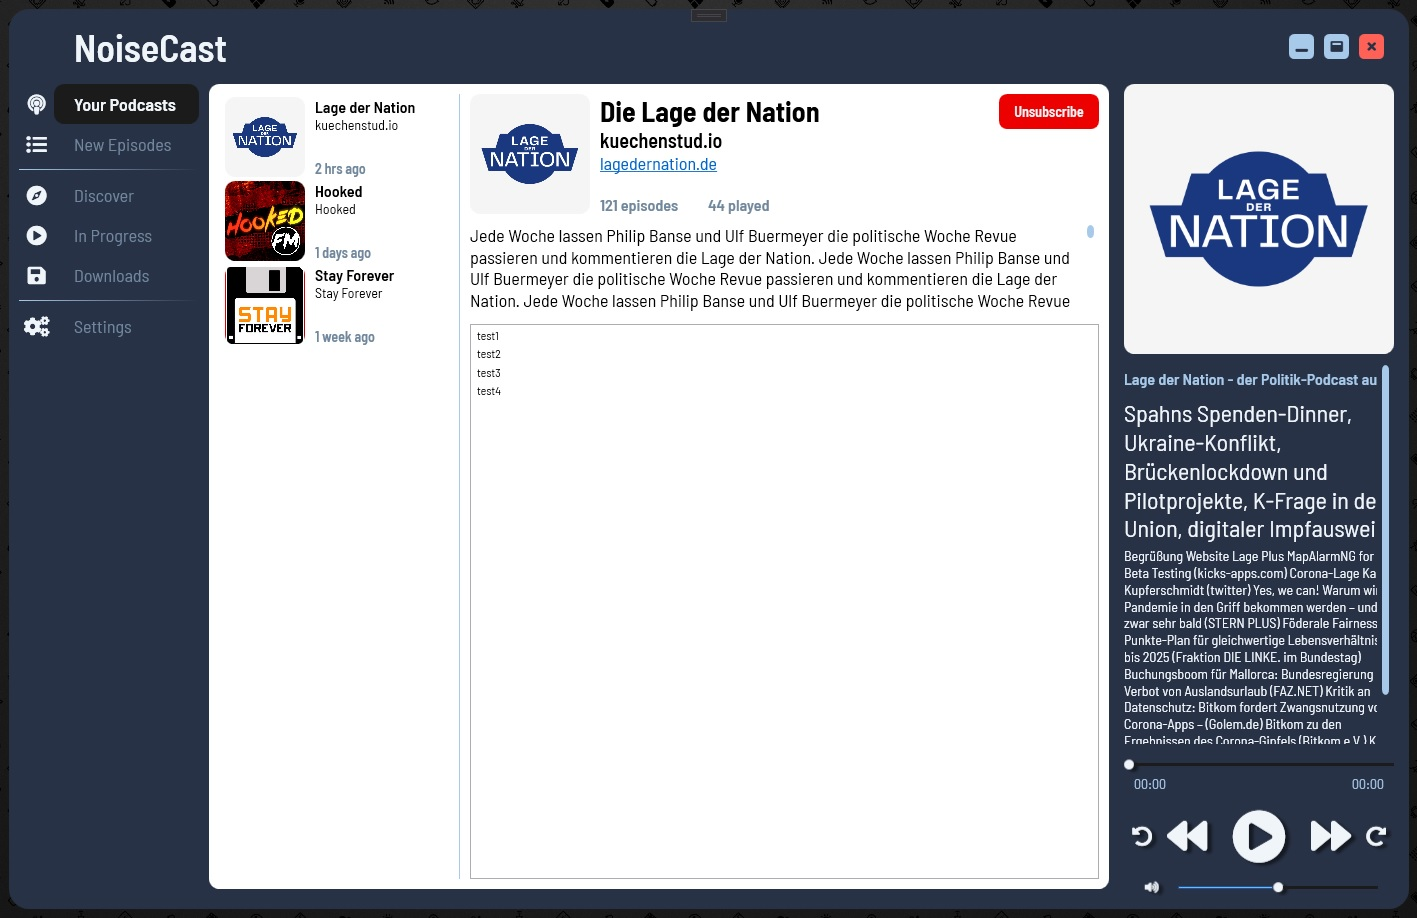
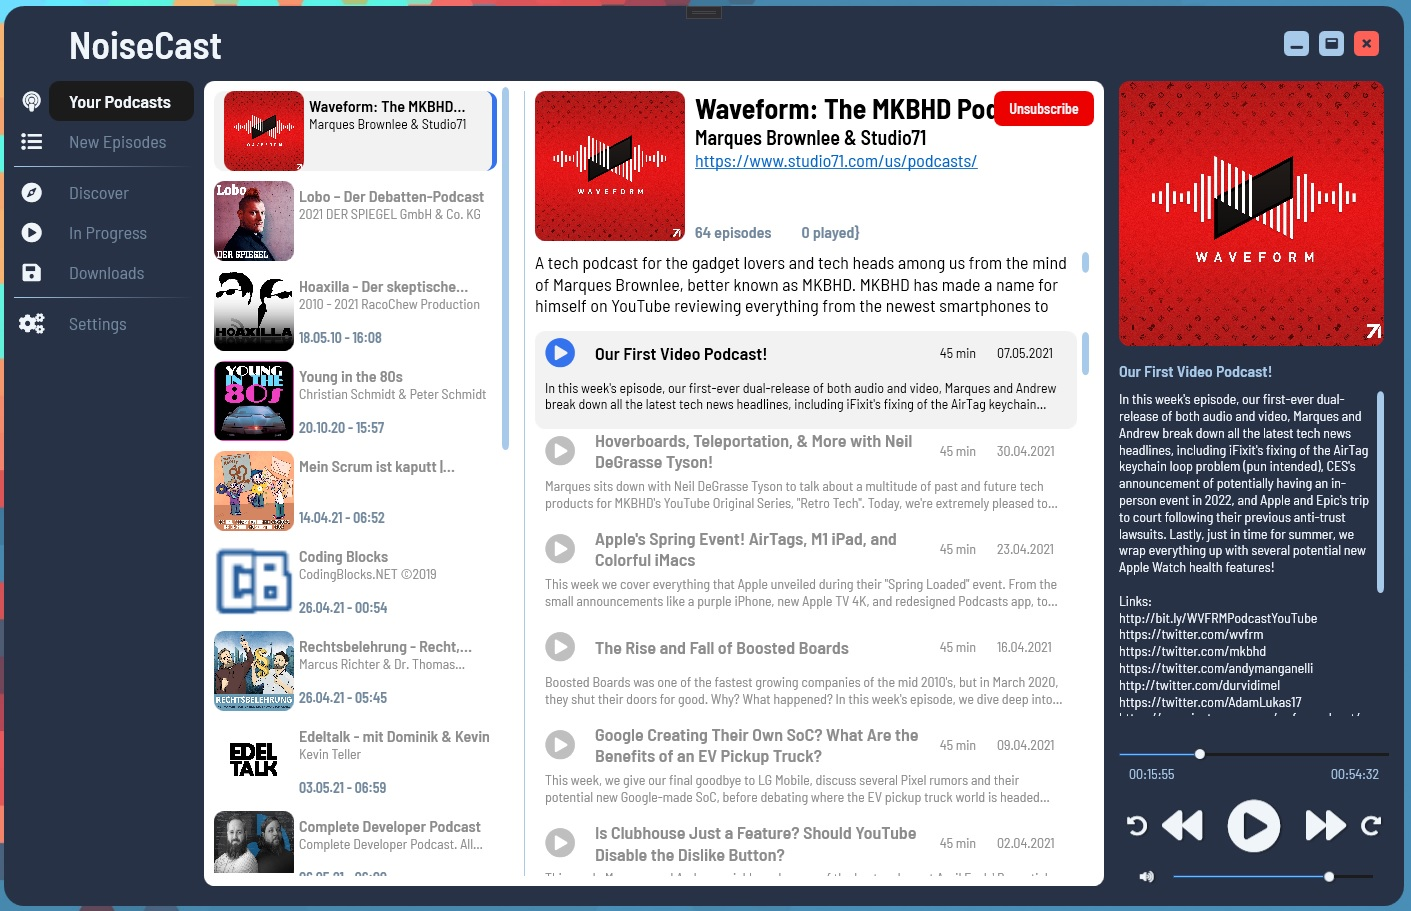
Slider und Zeitanzeige in textblock funktioniert

Changed region(s): [[0.0, 0.0, 1.0, 1.0], [0.3742, 0.584, 0.7484, 0.7684], [0.7172, 0.7991, 0.7484, 0.8299]]

diff --git a/WPFMVVM/MVVM/View/PlayerView.xaml b/WPFMVVM/MVVM/View/PlayerView.xaml
@@ -3,7 +3,7 @@
              xmlns:x="http://schemas.microsoft.com/winfx/2006/xaml"
              xmlns:mc="http://schemas.openxmlformats.org/markup-compatibility/2006"
              xmlns:d="http://schemas.microsoft.com/expression/blend/2008"
-             xmlns:local="clr-namespace:WPFMVVM.MVVM.View"
+             xmlns:core="clr-namespace:WPFMVVM.MVVM.Core"
              xmlns:vm="clr-namespace:WPFMVVM.MVVM.ViewModel"
              mc:Ignorable="d"
              Height="825"
@@ -12,6 +12,7 @@
              d:DataContext="{d:DesignInstance Type=vm:PlayerViewModel, IsDesignTimeCreatable=True}"
              x:Name="main">
     <UserControl.Resources>
+        <core:DoubleToTimeSpanConverter x:Key="TimeConverter"/>
         <vm:PlayerViewModel x:Key="PlayerViewModel"/>
     </UserControl.Resources>
 
@@ -84,11 +85,11 @@
                         Maximum="{Binding PositionMaximum}"
                         Value="{Binding Position, Mode=TwoWay}"/>
                 <Grid Margin="10 0">
-                    <TextBlock Text="{Binding Position}"
+                    <TextBlock Text="{Binding Position, Converter={StaticResource TimeConverter}, StringFormat={}{0:hh\\:mm\\:ss}}"
                                Foreground="{StaticResource DarkFont2}"
                                FontSize="14"
                                HorizontalAlignment="Left"/>
-                    <TextBlock Text="{Binding PositionMaximum}"
+                    <TextBlock Text="{Binding PositionMaximum, Converter={StaticResource TimeConverter}, StringFormat={}{0:hh\\:mm\\:ss}}"
                                Foreground="{StaticResource DarkFont2}"
                                FontSize="14"
                                HorizontalAlignment="Right"/>

diff --git a/WPFMVVM/MVVM/ViewModel/PlayerViewModel.cs b/WPFMVVM/MVVM/ViewModel/PlayerViewModel.cs
@@ -1,13 +1,9 @@
-using CodeHollow.FeedReader.Feeds;
-using System;
-using System.ComponentModel;
-using System.Diagnostics;
-using System.Threading;
+using System;
 using System.Windows.Controls;
 using System.Windows.Input;
 using System.Windows.Threading;
 using WPFMVVM.Core;
-using WPFMVVM.MVVM.Core;
+using WPFMVVM.MVVM.Model;
 
 namespace WPFMVVM.MVVM.ViewModel
 {
@@ -17,9 +13,9 @@ namespace WPFMVVM.MVVM.ViewModel
         private DispatcherTimer _timer;
         private Episode _currentEpisode;
         private double _skipAmount;
-        private double _tempVolume;
         private double _position;
         private double _positionMaximum;
+        private double _tempVolume;
 
         public MediaElement MediaElement
         {
@@ -39,7 +35,13 @@ namespace WPFMVVM.MVVM.ViewModel
         public double Position
         {
             get => _position;
-            set => SetProperty(ref _position, value);
+            set
+            {
+                if (value != _position + 1)
+                    MediaElement.Position = TimeSpan.FromSeconds(value);
+
+                SetProperty(ref _position, value);
+            }
         }
         public double PositionMaximum
         {
@@ -74,20 +76,22 @@ namespace WPFMVVM.MVVM.ViewModel
             _mediaElement = new MediaElement();
             _mediaElement.LoadedBehavior = MediaState.Manual;
             _mediaElement.UnloadedBehavior = MediaState.Manual;
+            _mediaElement.MediaOpened += MediaElement_MediaOpened;
 
             _skipAmount = 30;
             _mediaElement.Volume = .2;
         }
 
         private void OnTimerTick(object sender, EventArgs e) => Position++;
-
+        private void MediaElement_MediaOpened(object sender, System.Windows.RoutedEventArgs e)
+        {
+            Position = 0;
+            PositionMaximum = _mediaElement.NaturalDuration.TimeSpan.TotalSeconds;
+        }
         private void _currentEpisode_EpisodeChanged(Episode sender, EpisodeChangedEventArgs e)
         {
             MediaElement.Source = new Uri(sender.MediaUrl);
             _mediaElement.Pause();
-
-            if (_mediaElement.NaturalDuration.HasTimeSpan) PositionMaximum = _mediaElement.NaturalDuration.TimeSpan.TotalSeconds;
-            Position = 0;
         }
 
         private bool LastCanExecute(object arg) => false;
@@ -96,7 +100,7 @@ namespace WPFMVVM.MVVM.ViewModel
         private bool NextCanExecute(object arg) => false;
         private void NextExecuted(object obj) => throw new NotImplementedException();
 
-        private bool PlayCanExecute(object arg) => true;
+        private bool PlayCanExecute(object arg) => _mediaElement.Source != null;
         private void PlayExecuted(object obj)
         {
             if (_timer.IsEnabled)
@@ -110,11 +114,37 @@ namespace WPFMVVM.MVVM.ViewModel
             _mediaElement.Play();
         }
 
-        private bool SkipCanExecute(object arg) => _mediaElement.Source != null && _mediaElement.Position > TimeSpan.Zero;
-        private void SkipExecuted(object obj) => _mediaElement.Position += TimeSpan.FromSeconds(_skipAmount);
+        private bool SkipCanExecute(object arg) => _mediaElement.Source != null;
+        private void SkipExecuted(object obj)
+        {
+            TimeSpan targetTime = _mediaElement.Position + TimeSpan.FromSeconds(_skipAmount);
 
-        private bool RewindCanExecute(object arg) => _mediaElement.Source != null && _mediaElement.Position < _mediaElement.NaturalDuration;
-        private void RewindExecuted(object obj) => _mediaElement.Position -= TimeSpan.FromSeconds(_skipAmount);
+            if (targetTime > _mediaElement.NaturalDuration.TimeSpan)
+            {
+                _mediaElement.Position = _mediaElement.NaturalDuration.TimeSpan;
+                Position = _mediaElement.Position.TotalSeconds;
+                return;
+            }
+
+            _mediaElement.Position = targetTime;
+            Position = targetTime.TotalSeconds;
+        }
+
+        private bool RewindCanExecute(object arg) => _mediaElement.Source != null;
+        private void RewindExecuted(object obj)
+        {
+            TimeSpan targetTime = _mediaElement.Position - TimeSpan.FromSeconds(_skipAmount);
+
+            if (targetTime <= TimeSpan.Zero)
+            {
+                _mediaElement.Position = TimeSpan.Zero;
+                Position = 0;
+                return;
+            }
+
+            _mediaElement.Position = targetTime;
+            Position = targetTime.TotalSeconds;
+        }
 
         private bool MuteCanExecute(object arg) => true;
         private void MuteExecuted(object obj)

diff --git a/WPFMVVM/MVVM/Core/PodcastFeed.cs b/WPFMVVM/MVVM/Core/PodcastFeed.cs
@@ -71,23 +71,23 @@ namespace WPFMVVM.MVVM.Core
             {
                 @"http://www.superkreuzburg.de/feed/ratsherren/",
                 @"https://feeds.lagedernation.org/feeds/ldn-mp3.xml",
-                //@"https://feeds.simplecast.com/dLRotFGk",
-                //@"https://www.omnycontent.com/d/playlist/5ac1e950-45c7-4eb7-87c0-aa0f018441b8/008f004b-055e-4e0c-9fd0-abc000ffb04a/3b93bc3f-52cb-4a3b-91ef-abc000ffb053/podcast.rss",
-                //@"https://feeds.buzzsprout.com/1183862.rss",
-                //@"http://rechtsbelehrung.com/feed/podcast",
-                //@"https://feeds.buzzsprout.com/176239.rss",
-                //@"https://www.hookedmagazin.de/feed/hookedfm/",
-                //@"https://guildnews.podcaster.de/Guildnews_Podcast.rss",
-                //@"https://completedeveloperpodcast.com/feed/podcast/",
-                //@"https://okcool.podigee.io/feed/mp3",
-                //@"https://80erman.podcaster.de/younginthe80s.rss",
-                //@"http://feeds.soundcloud.com/users/soundcloud:users:377025653/sounds.rss",
-                //@"https://k1svup.podcaster.de/edeltalk.rss",
-                //@"https://www.codingblocks.net/podcast-feed.xml",
-                //@"http://feeds.feedburner.com/WaveformWithMkbhd",
-                //@"https://meinscrumistkaputt.de/feed/podcast/",
-                //@"https://podcastd45a61.podigee.io/feed/mp3",
-                //@"https://www.hoaxilla.com/podcast/hoaxilla.xml",
+                @"https://feeds.simplecast.com/dLRotFGk",
+                @"https://www.omnycontent.com/d/playlist/5ac1e950-45c7-4eb7-87c0-aa0f018441b8/008f004b-055e-4e0c-9fd0-abc000ffb04a/3b93bc3f-52cb-4a3b-91ef-abc000ffb053/podcast.rss",
+                @"https://feeds.buzzsprout.com/1183862.rss",
+                @"http://rechtsbelehrung.com/feed/podcast",
+                @"https://feeds.buzzsprout.com/176239.rss",
+                @"https://www.hookedmagazin.de/feed/hookedfm/",
+                @"https://guildnews.podcaster.de/Guildnews_Podcast.rss",
+                @"https://completedeveloperpodcast.com/feed/podcast/",
+                @"https://okcool.podigee.io/feed/mp3",
+                @"https://80erman.podcaster.de/younginthe80s.rss",
+                @"http://feeds.soundcloud.com/users/soundcloud:users:377025653/sounds.rss",
+                @"https://k1svup.podcaster.de/edeltalk.rss",
+                @"https://www.codingblocks.net/podcast-feed.xml",
+                @"http://feeds.feedburner.com/WaveformWithMkbhd",
+                @"https://meinscrumistkaputt.de/feed/podcast/",
+                @"https://podcastd45a61.podigee.io/feed/mp3",
+                @"https://www.hoaxilla.com/podcast/hoaxilla.xml",
 
                 //@"https://steadyhq.com/rss/hooked?auth=72719c2d-0e79-4bcb-a027-f65becedce71",
                 //@"https://www.patreon.com/rss/hooked?auth=0Ig5i4ROq4Aqsfkoub6aIhvxQbJJvXo9",

diff --git a/WPFMVVM/MVVM/Core/TimeConverter.cs b/WPFMVVM/MVVM/Core/TimeConverter.cs
@@ -1,0 +1,30 @@
+using System;
+using System.Globalization;
+using System.Windows.Data;
+
+namespace WPFMVVM.MVVM.Core
+{
+    [ValueConversion(typeof(double), typeof(TimeSpan))]
+    public class DoubleToTimeSpanConverter : IValueConverter
+    {
+        public object Convert(object value, Type targetType, object parameter, CultureInfo culture)
+        {
+            double? seconds = value as double?;
+
+            if (seconds.HasValue)
+                return TimeSpan.FromSeconds(seconds.Value);
+
+            return TimeSpan.Zero;
+        }
+
+        public object ConvertBack(object value, Type targetType, object parameter, CultureInfo culture)
+        {
+            TimeSpan? time = value as TimeSpan?;
+
+            if (time.HasValue)
+                return time.Value.TotalSeconds;
+
+            return 0;
+        }
+    }
+}

diff --git a/WPFMVVM/MVVM/ViewModel/YourPodcastsViewModel.cs b/WPFMVVM/MVVM/ViewModel/YourPodcastsViewModel.cs
@@ -31,7 +31,7 @@ namespace WPFMVVM.MVVM.ViewModel
             // Podcasts List Setup
             _podcastList = new PodcastFeed().RequestFeeds();
             _viewPodcasts = new ListCollectionView(_podcastList);
-            SortViewCollection(_viewPodcasts, nameof(FeedItem.Title), ListSortDirection.Ascending);
+            SortViewCollection(_viewPodcasts, nameof(Rss20Feed.LastBuildDate), ListSortDirection.Ascending);
             _viewPodcasts.MoveCurrentToFirst();
 
             // Episodes List Setup

diff --git a/WPFMVVM/MVVM/Model/Episode.cs b/WPFMVVM/MVVM/Model/Episode.cs
@@ -3,7 +3,7 @@ using CodeHollow.FeedReader.Feeds;
 using System;
 using WPFMVVM.Core;
 
-namespace WPFMVVM.MVVM.Core
+namespace WPFMVVM.MVVM.Model
 {
     public delegate void EpisodeChangedEventHandler(Episode sender, EpisodeChangedEventArgs e);
     public class EpisodeChangedEventArgs : EventArgs

diff --git a/WPFMVVM/MVVM/View/PlayerView.xaml.cs b/WPFMVVM/MVVM/View/PlayerView.xaml.cs
@@ -1,9 +1,4 @@
-using System;
-using System.Windows;
-using System.Windows.Controls;
-using System.Windows.Controls.Primitives;
-using System.Windows.Threading;
-using WPFMVVM.MVVM.ViewModel;
+using System.Windows.Controls;
 
 namespace WPFMVVM.MVVM.View
 {
